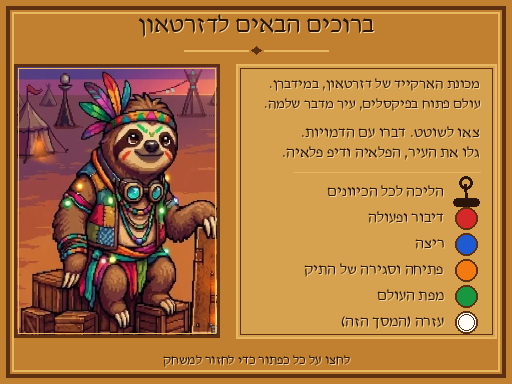
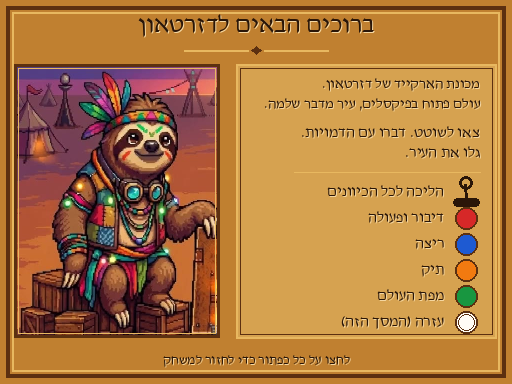
Shorten the help slide copy.
Drop פלאיה, דיפ פלאיה, and מידברן, and label the orange button תיק.

diff --git a/game-files/tests/test_plugin_rules.py b/game-files/tests/test_plugin_rules.py
@@ -237,8 +237,12 @@ class PluginRuleTests(unittest.TestCase):
             self.assertGreater(mascot, 400, "help slide paints the character on the left")
         slide_txt = (ROOT / "Plugins" / "DesertTownArcade" / "help_slide.txt").read_text(encoding="utf-8")
         self.assertIn("ברוכים הבאים לדזרטאון", slide_txt)
-        self.assertIn("מכונת הארקייד של דזרטאון, במידברן.", slide_txt)
+        self.assertIn("מכונת הארקייד של דזרטאון.", slide_txt)
+        self.assertIn("גלו את העיר.", slide_txt)
+        self.assertIn("orange = תיק", slide_txt)
         self.assertNotIn("מדבר טאון", slide_txt)
+        for banned in ("פלאיה", "מידברן"):
+            self.assertNotIn(banned, slide_txt)
         self.assertIn("צאו לשוטט. דברו עם הדמויות.", slide_txt)
         arcade_dir = ROOT / "Plugins" / "DesertTownArcade"
         slide_py = (arcade_dir / "slide_text.py").read_text(encoding="utf-8")
